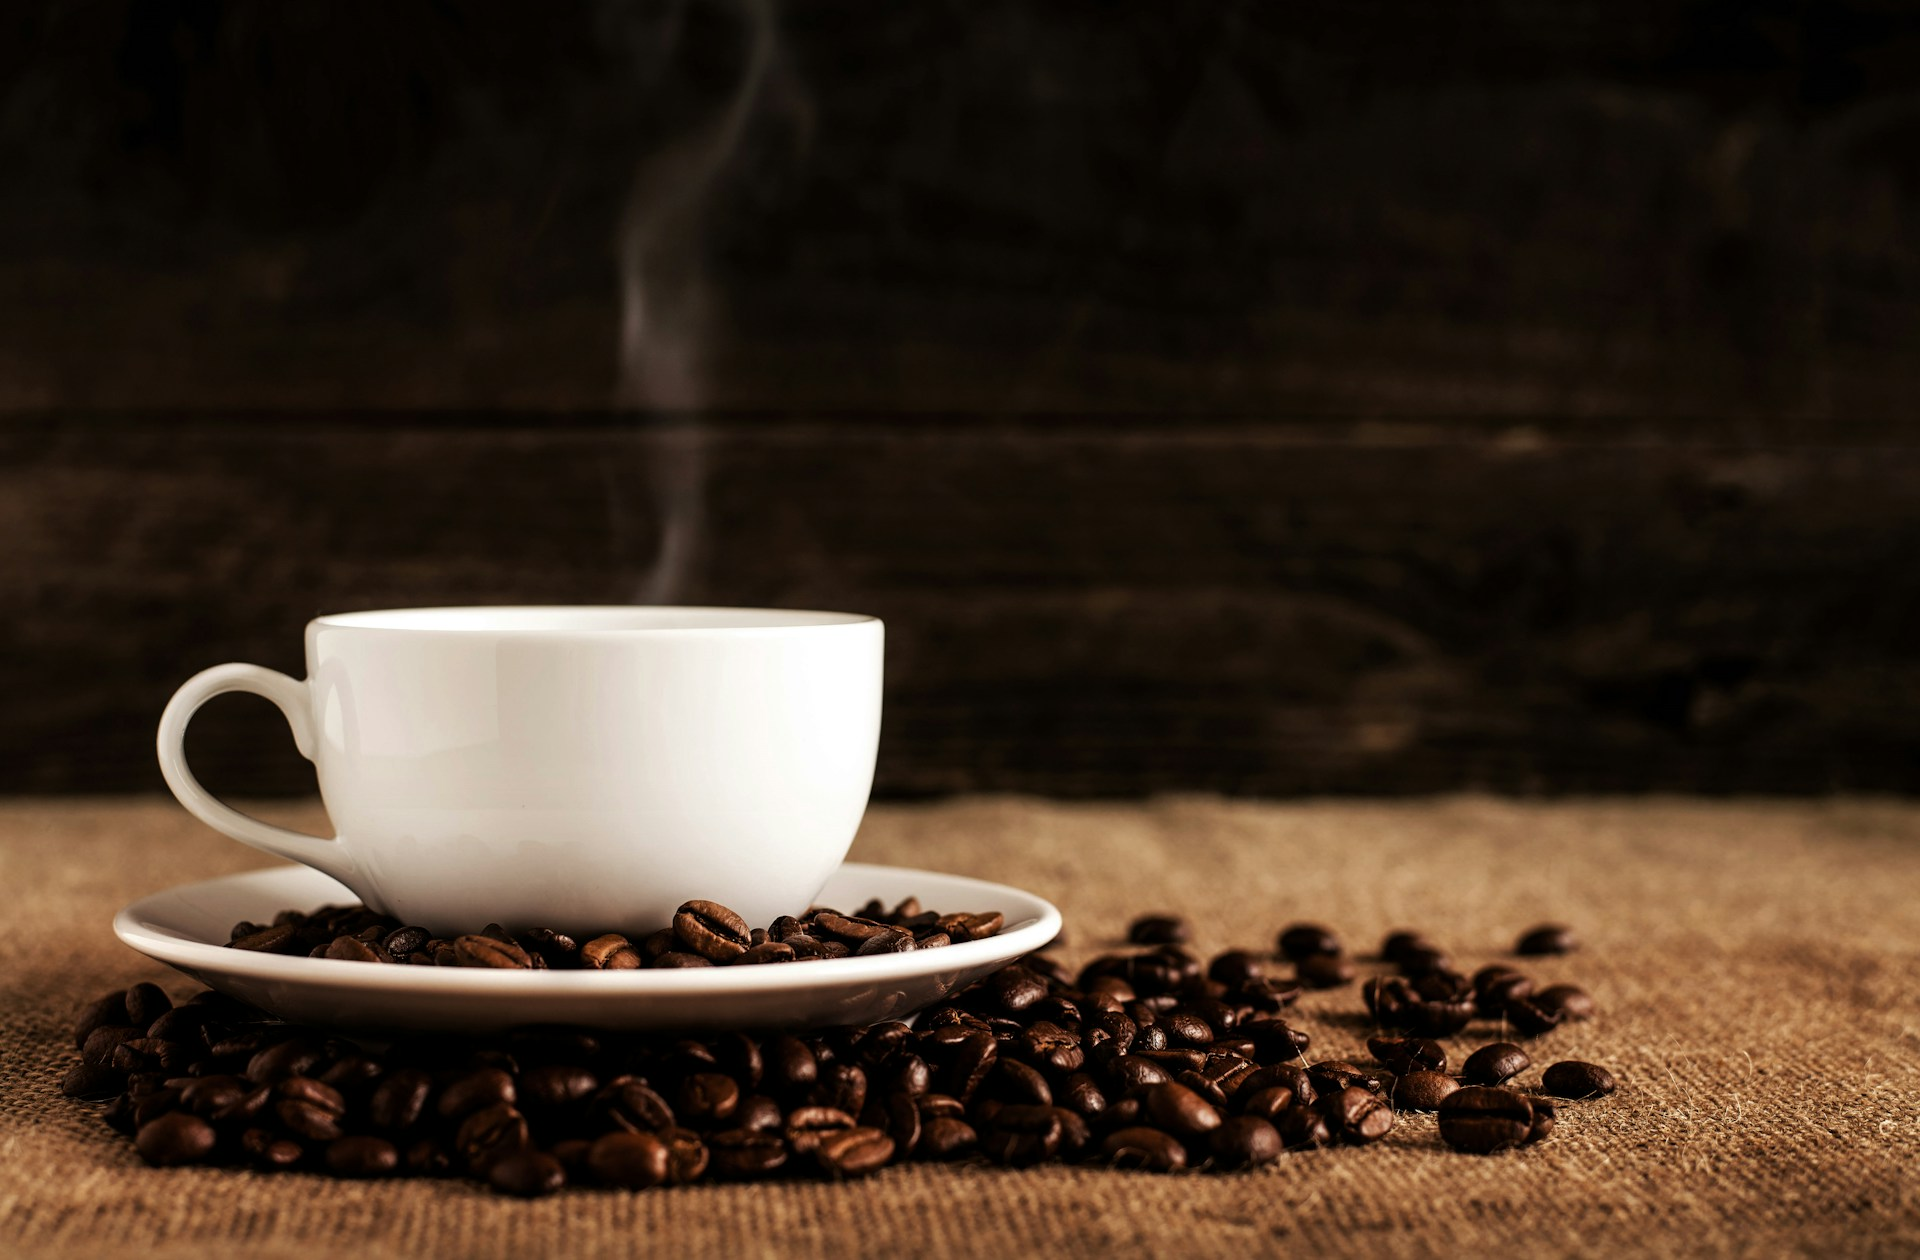
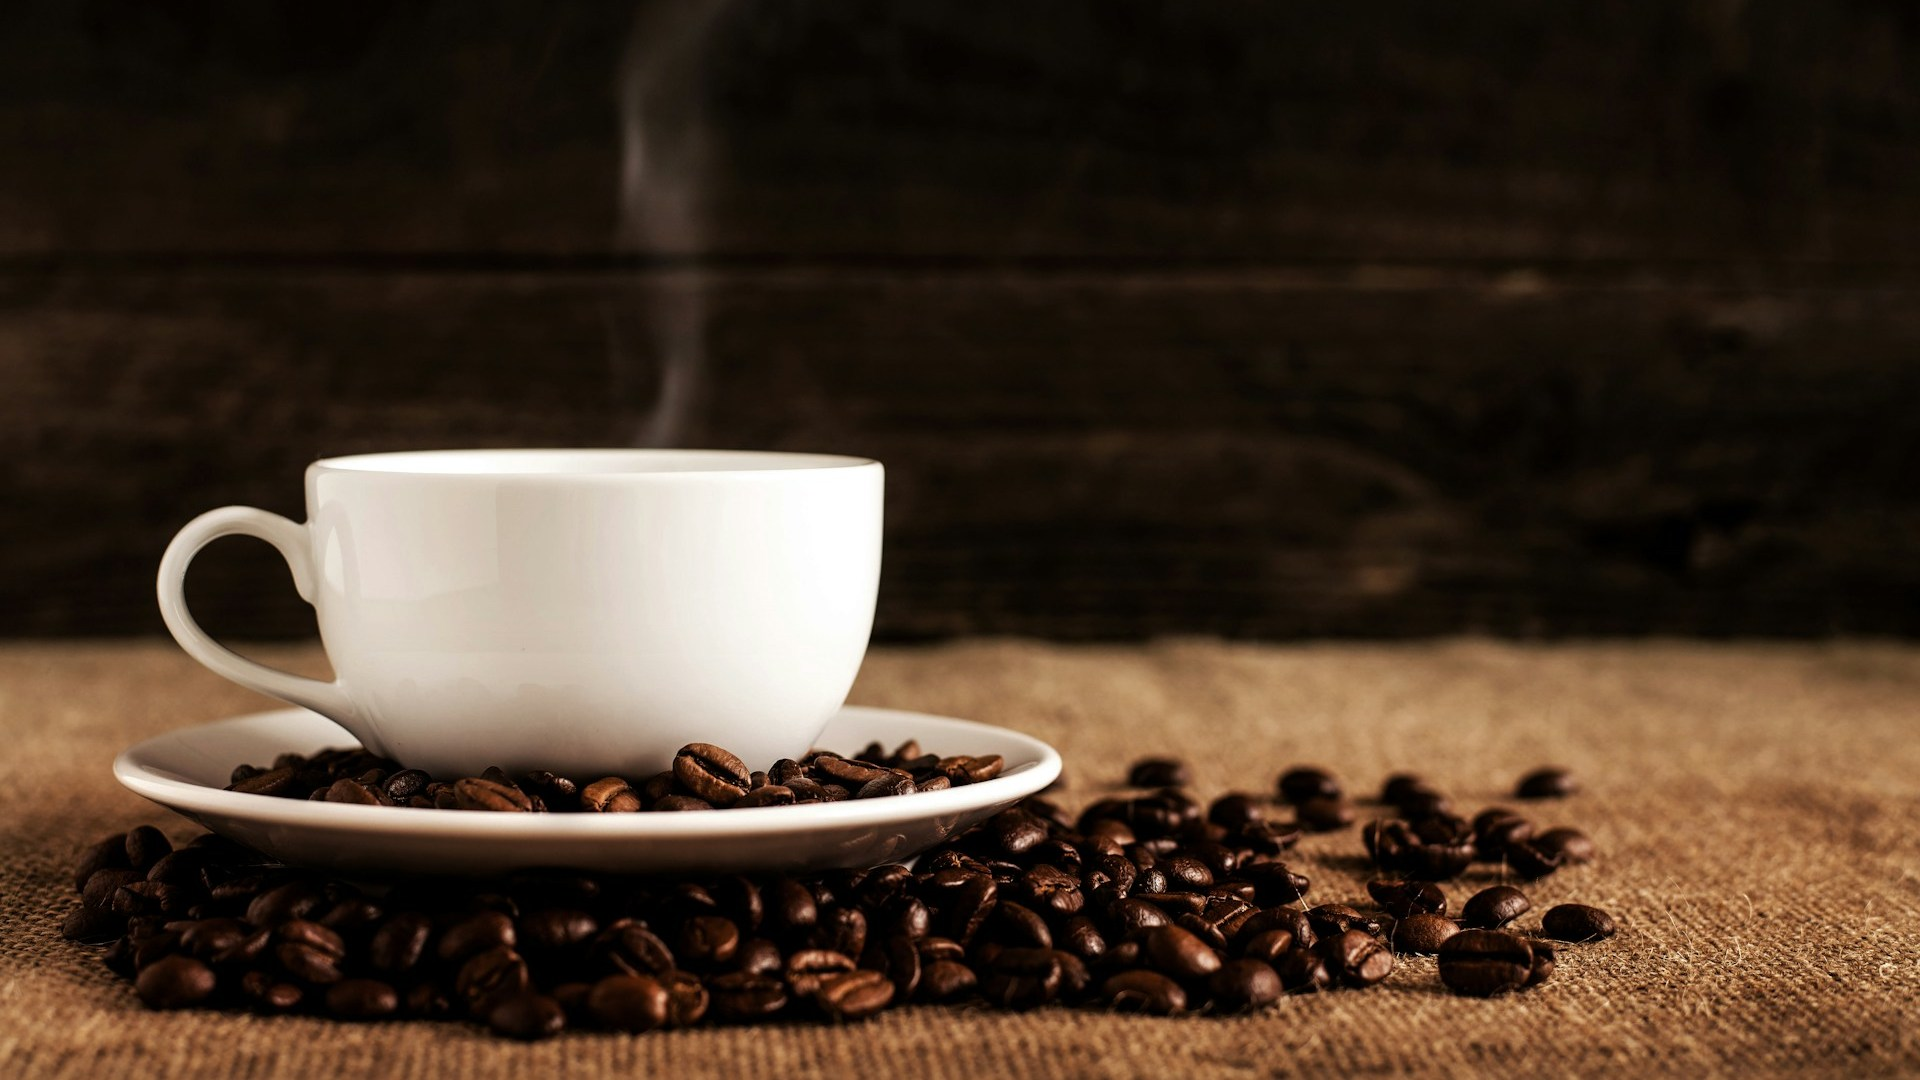
Carousel added to the index.ejs, some minot cosmetic changes to the navbar.ejs, images sizes changed

diff --git a/home/css/styles.css b/home/css/styles.css
@@ -1,6 +1,9 @@
 /* General style */
 body {
-    background-color: black;
+    background-image: url("../images/background.jpg");
+    background-attachment: fixed;
+    background-blend-mode: overlay;
+    background-color: rgba(255, 255, 255, 0.1);
     color: white;
     padding: 0;
     margin: 0;
@@ -11,9 +14,58 @@ body {
 .navbar {
     font-size: 1.3rem;
     margin-bottom: 2%;
+    background-image: url("../images/background.jpg");
+    background-blend-mode: overlay;
+    background-color: rgba(90, 0, 0, 0.3);
+    border-bottom: 0.1rem solid white;
+    box-shadow: -0.5rem 0.4rem 0.2rem rgba(202, 148, 148, 0.5);
+}
+
+.navbar-brand {
+    font-weight: 600;
+    font-size: 1.5rem;
+    font-family: 'Lucida Sans', 'Lucida Sans Regular', 'Lucida Grande', 'Lucida Sans Unicode', Geneva, Verdana, sans-serif;
+    border-radius: 1rem;
+    padding: 0 0.5rem 0 0.5rem;
+    box-shadow: -0.5rem 0.5rem 0.2rem rgba(202, 148, 148, 0.5);
 }
 
 .container-nav {
     padding-left: 5%;
     padding-right: 5%;
 }
+
+.nav-item {
+    padding-left: 1rem;
+}
+
+/* Carousel */
+.carousel {
+    width: 78vw;
+    margin: auto;
+    border: 0.2rem inset white;
+    border-radius: 1rem;
+}
+
+.carousel img {
+    border-radius: 1rem;
+}
+
+.carousel .btn {
+    background-color: rgba(90, 0, 0, 0.3);
+    color: white;
+    border: 0.1rem solid white;
+}
+
+.carousel .btn:hover {
+    outline: 0.2rem solid white;
+
+}
+
+.carousel-item {
+    font-size: 120%;
+}
+
+
+
+
